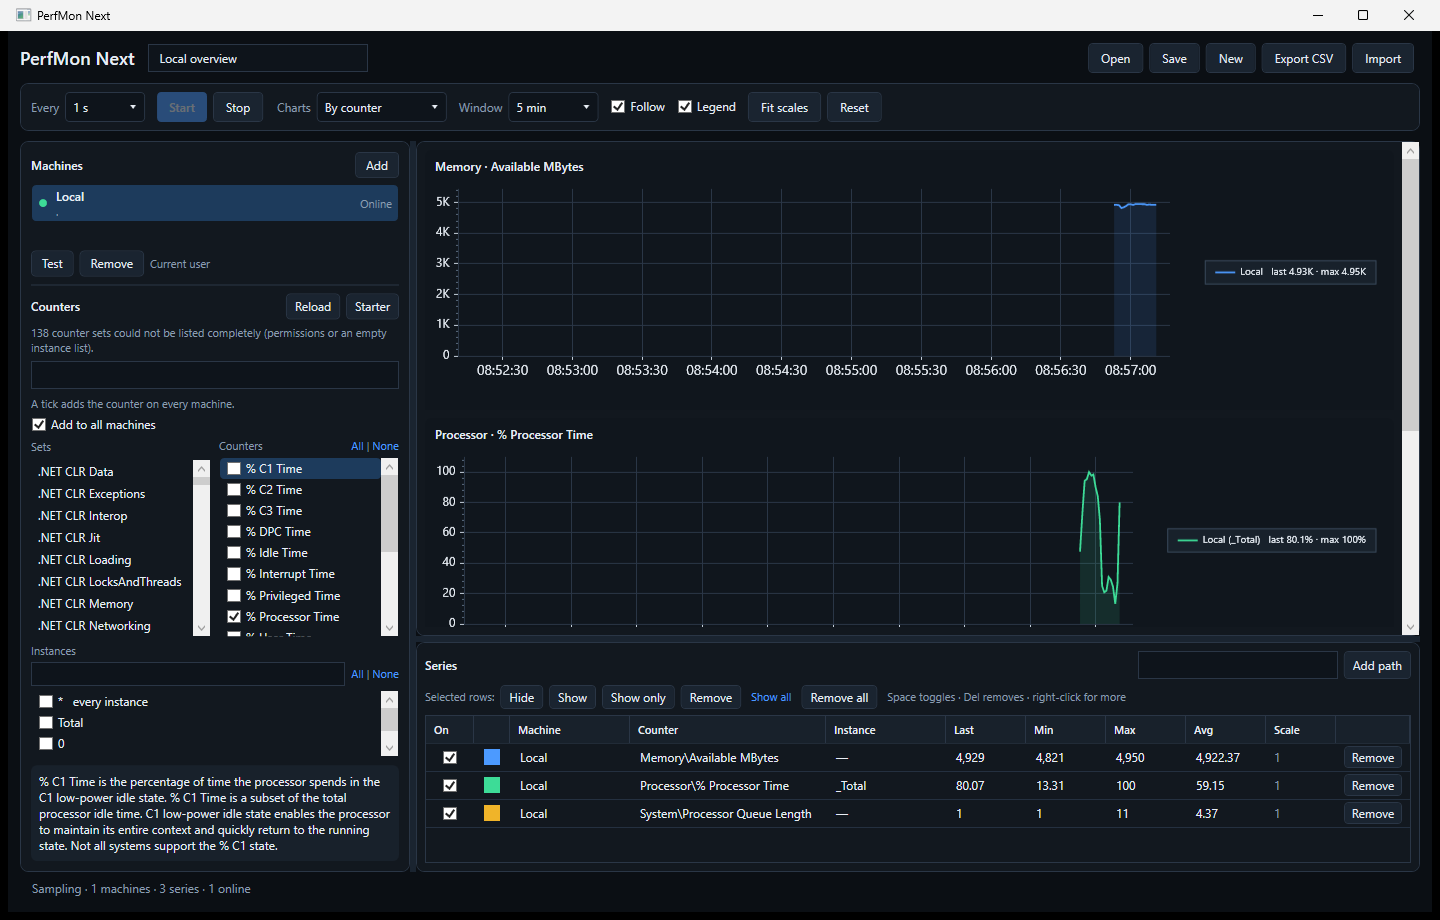
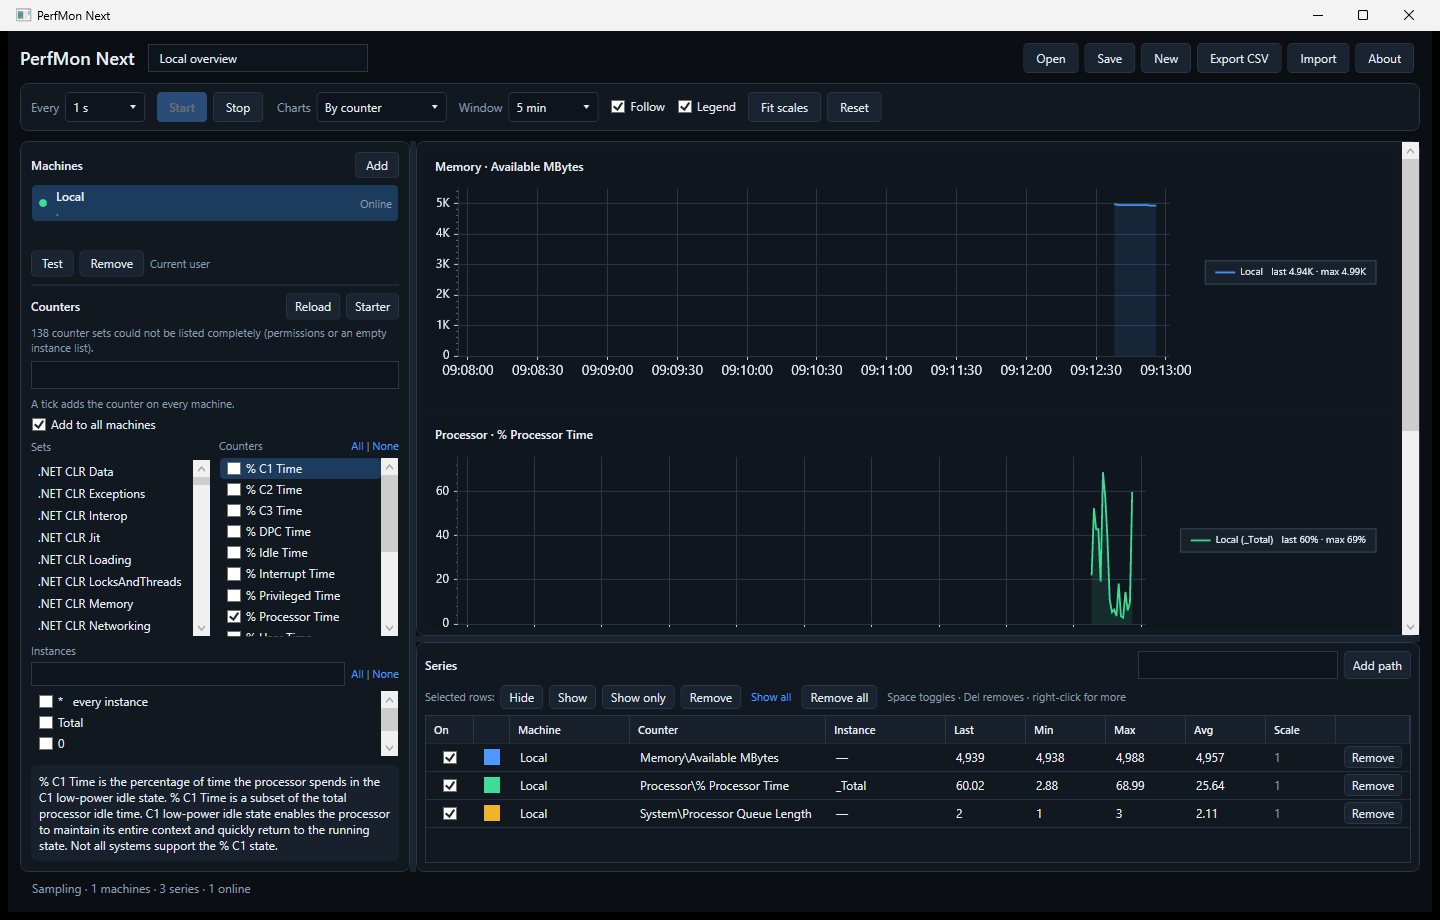
Docs: About screenshot; refresh screenshots from the 0.3.5 build.

diff --git a/docs/user-guide.md b/docs/user-guide.md
@@ -56,6 +56,12 @@ Select several rows with Shift-click or Ctrl-click (or **Ctrl+A**), then use the
 
 Keys in the table: **Space** toggles the selection (if any selected series is visible, they are all hidden; otherwise they are all shown) and **Delete** removes it. Click the color swatch to cycle a series color, and type into **Scale** to set a display factor (see [Fit scales and Reset](#fit-scales-and-reset)).
 
+### About
+
+![About window](screenshots/about.png)
+
+**About** shows the version and commit, the MIT license, a link to the source on GitHub, and who builds PerfMon Next.
+
 ## Counter picker
 
 ![Counter picker](screenshots/counter-picker.png)
